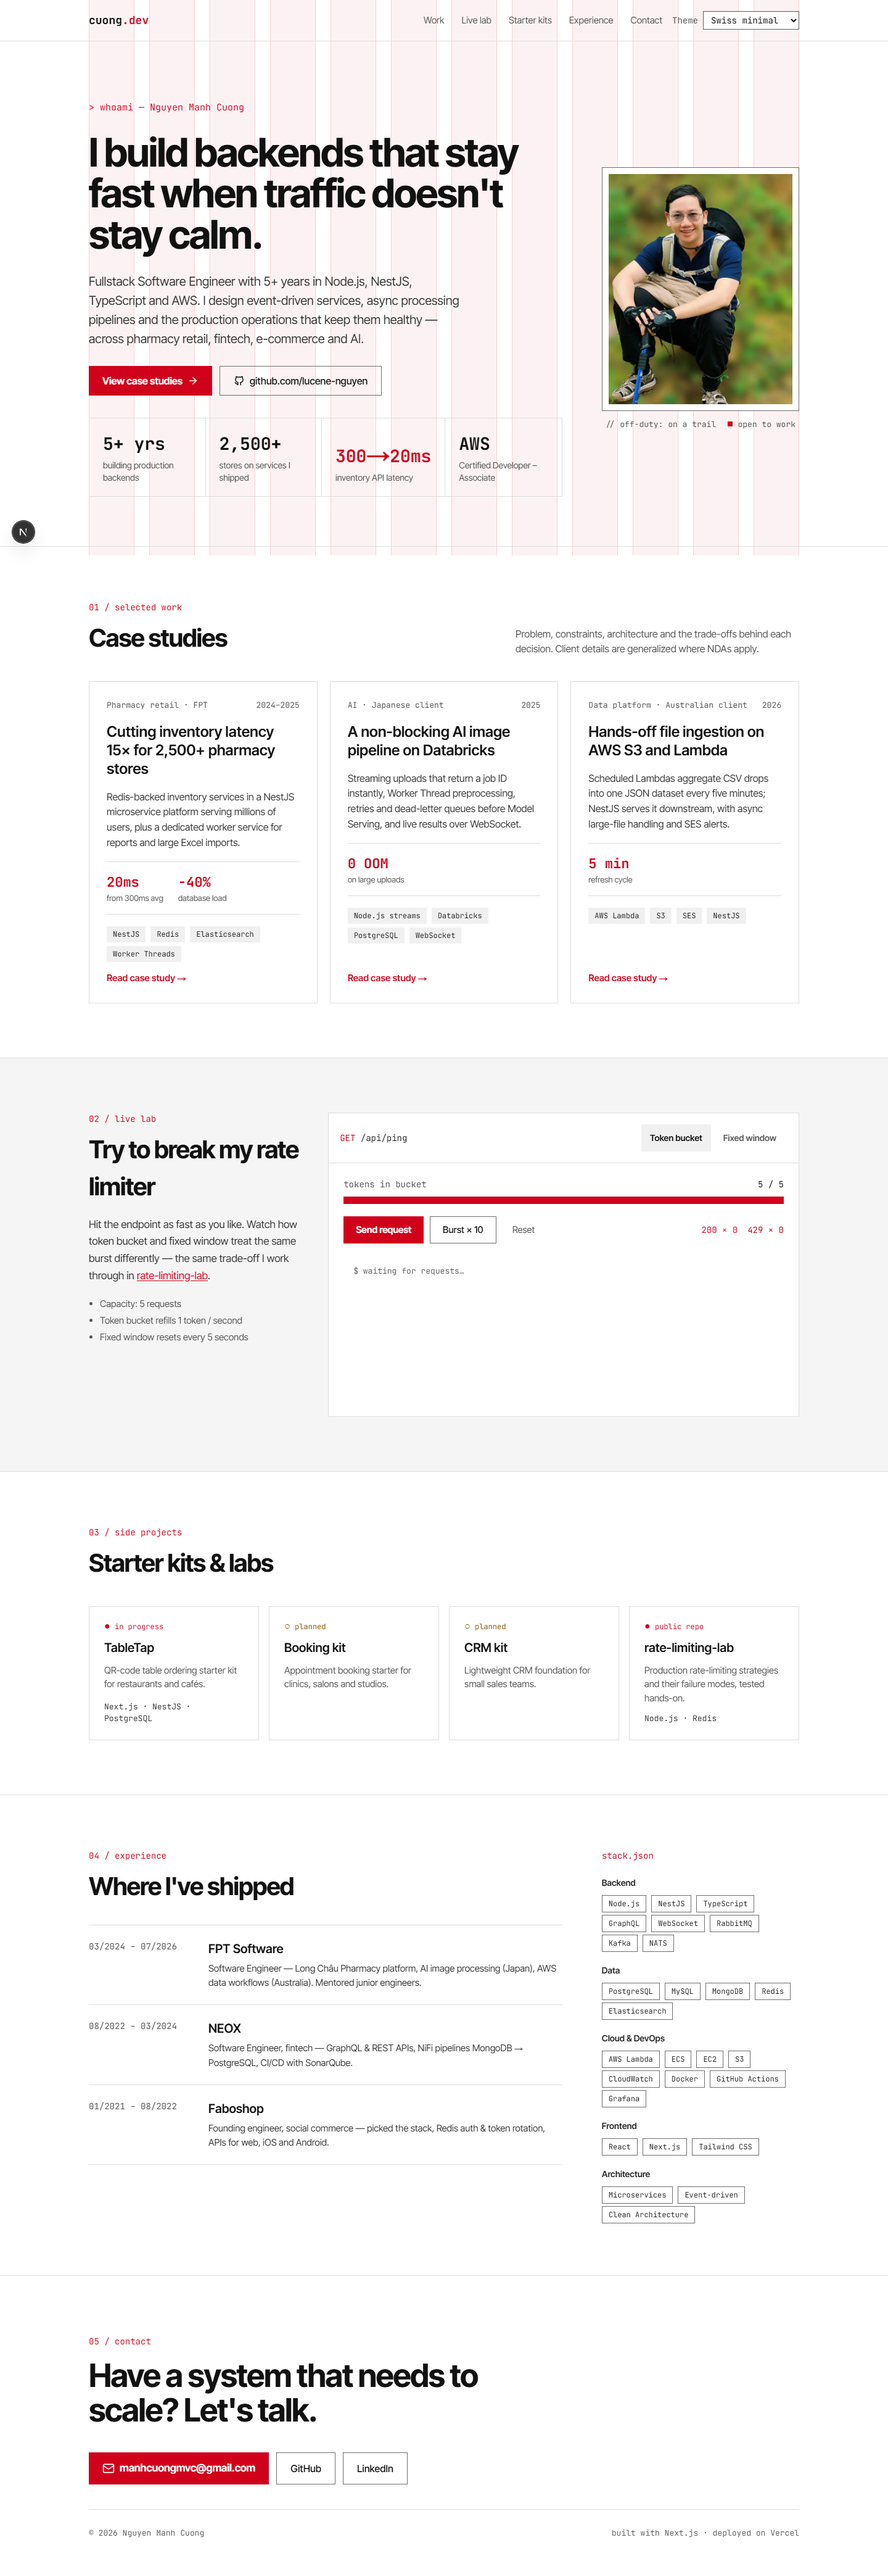
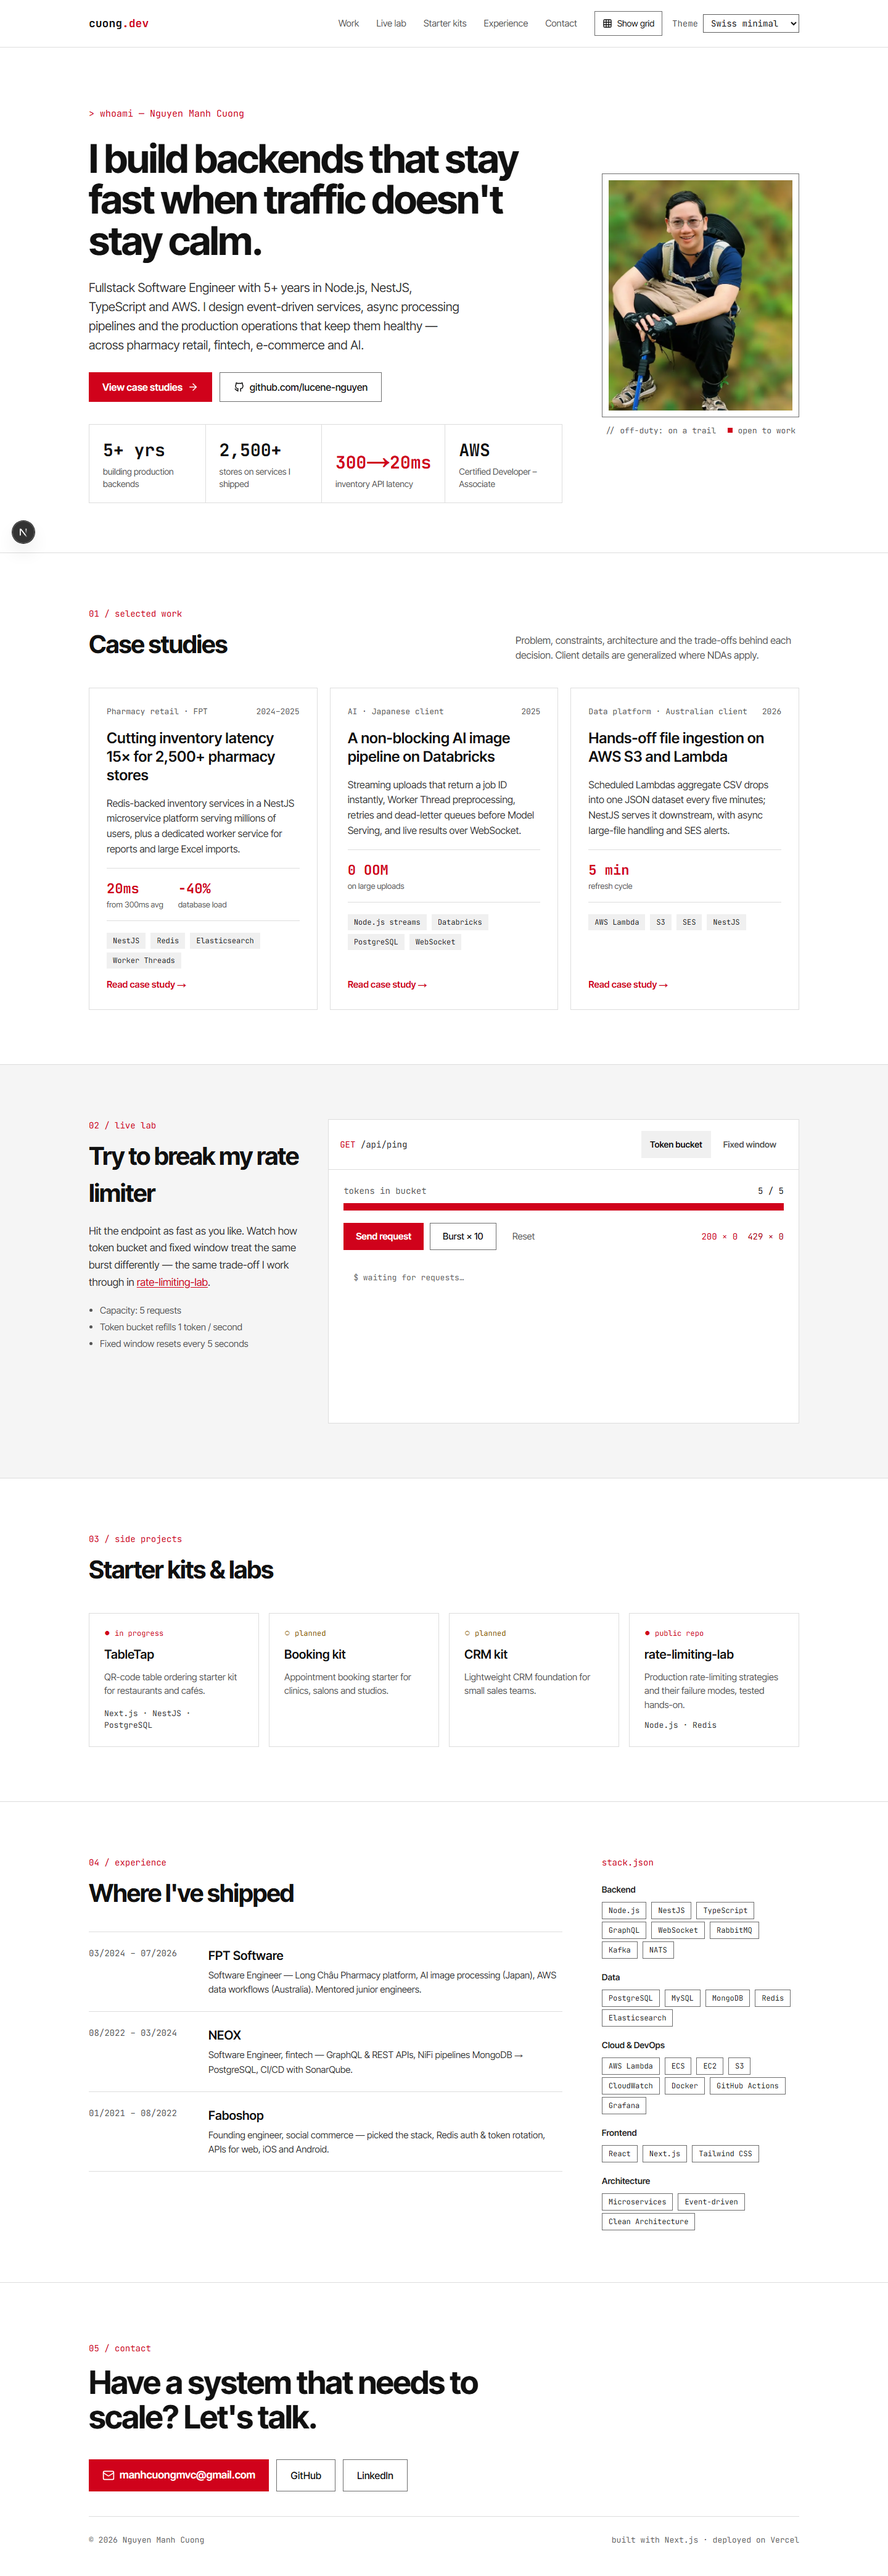
fix(ui): swiss grid toggle saves on click, hover; screenshots incl. grid on

diff --git a/themes/swiss-minimal/grid.tsx b/themes/swiss-minimal/grid.tsx
@@ -1,6 +1,6 @@
 "use client";
 
-import { useEffect, useState } from "react";
+import { useState } from "react";
 import { createPortal } from "react-dom";
 import { Grid3x3 } from "lucide-react";
 import { useThemeSlot } from "@/components/theme/use-theme-slot";
@@ -21,12 +21,6 @@ export default function SwissGrid() {
   });
   const navSlot = useThemeSlot("theme-slot-nav");
 
-  useEffect(() => {
-    try {
-      localStorage.setItem(KEY, on ? "on" : "off");
-    } catch {}
-  }, [on]);
-
   return (
     <>
       <div aria-hidden className="sw-grid" data-on={on} data-testid="swiss-grid">
@@ -40,8 +34,14 @@ export default function SwissGrid() {
           <button
             type="button"
             aria-pressed={on}
-            onClick={() => setOn((v) => !v)}
-            className="hidden min-h-10 items-center gap-2 border border-border-strong px-3 text-sm text-text aria-pressed:bg-accent aria-pressed:text-accent-contrast lg:inline-flex"
+            onClick={() => {
+              const next = !on;
+              setOn(next);
+              try {
+                localStorage.setItem(KEY, next ? "on" : "off");
+              } catch {}
+            }}
+            className="hidden min-h-10 items-center gap-2 border border-border-strong px-3 text-sm text-text transition-colors duration-200 hover:bg-surface-2 aria-pressed:bg-accent aria-pressed:text-accent-contrast lg:inline-flex"
           >
             <Grid3x3 size={16} aria-hidden />
             {swissCopy.showGrid}
